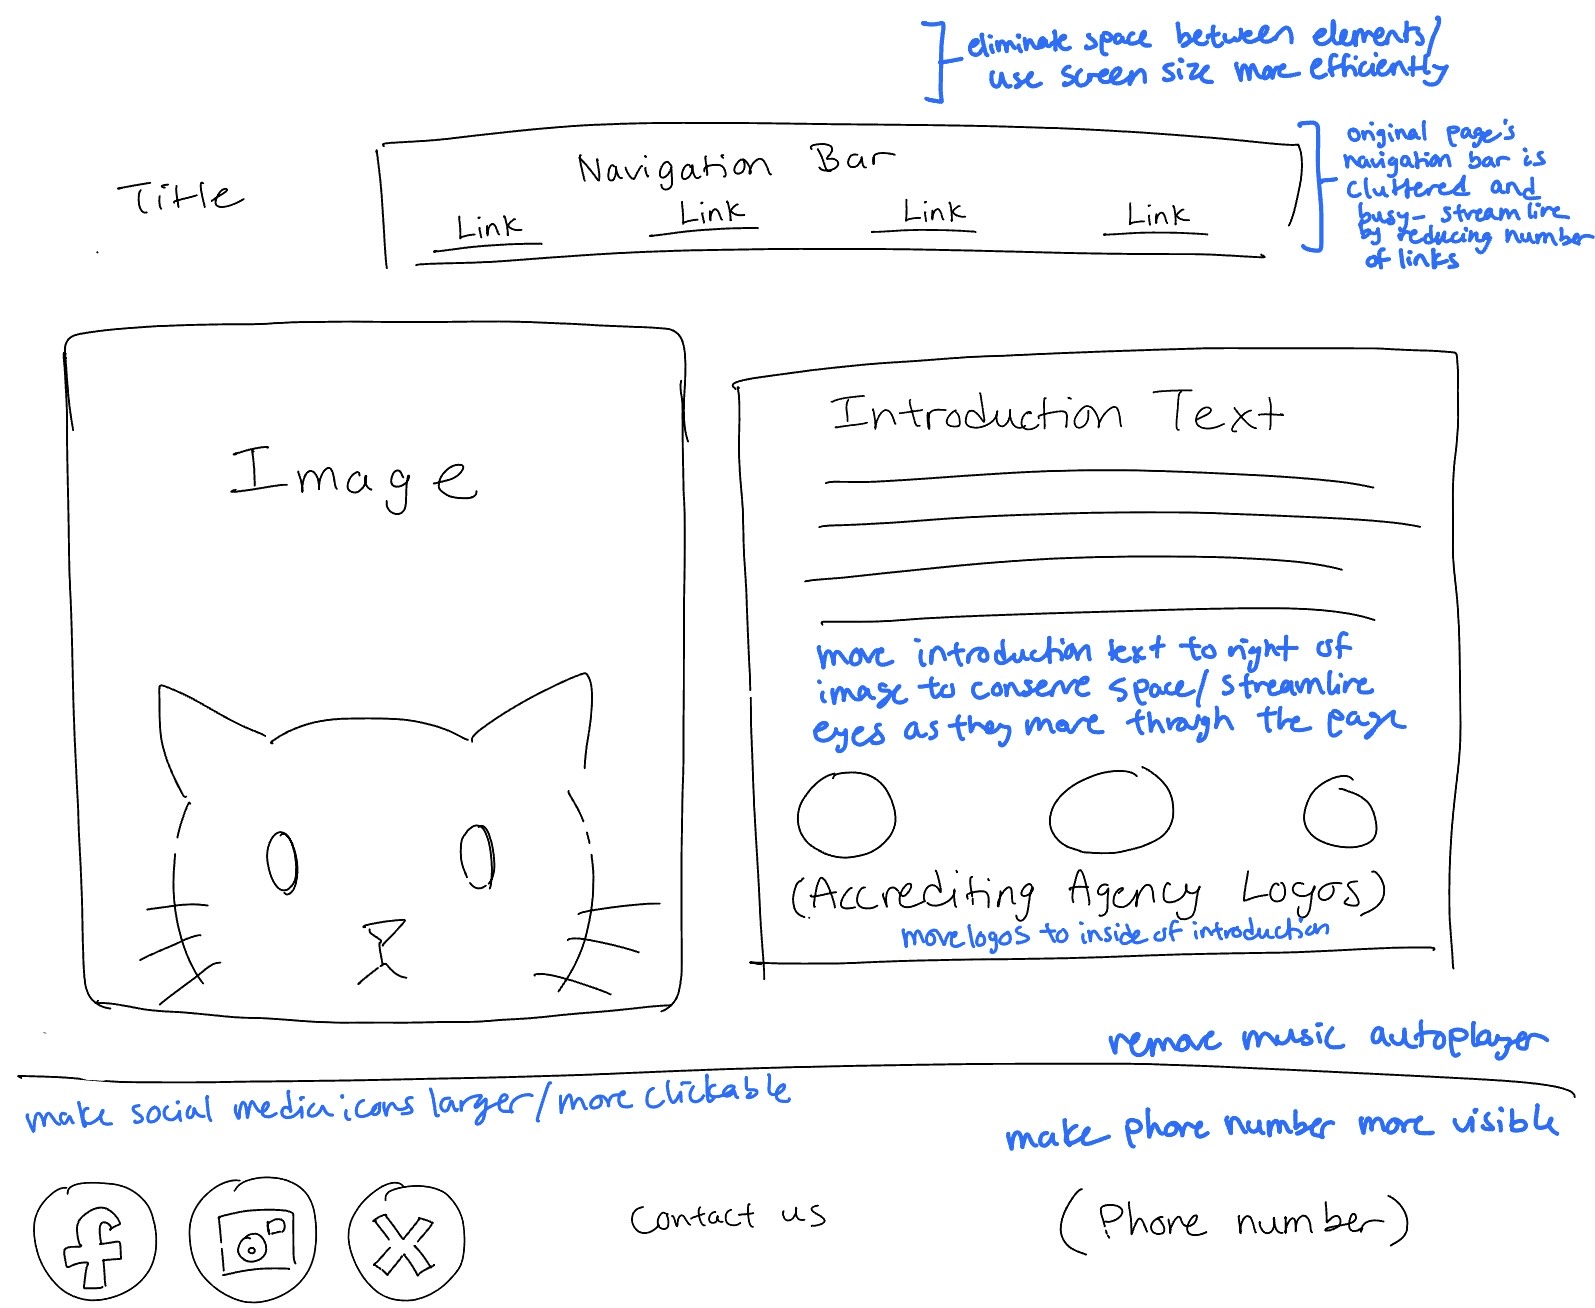
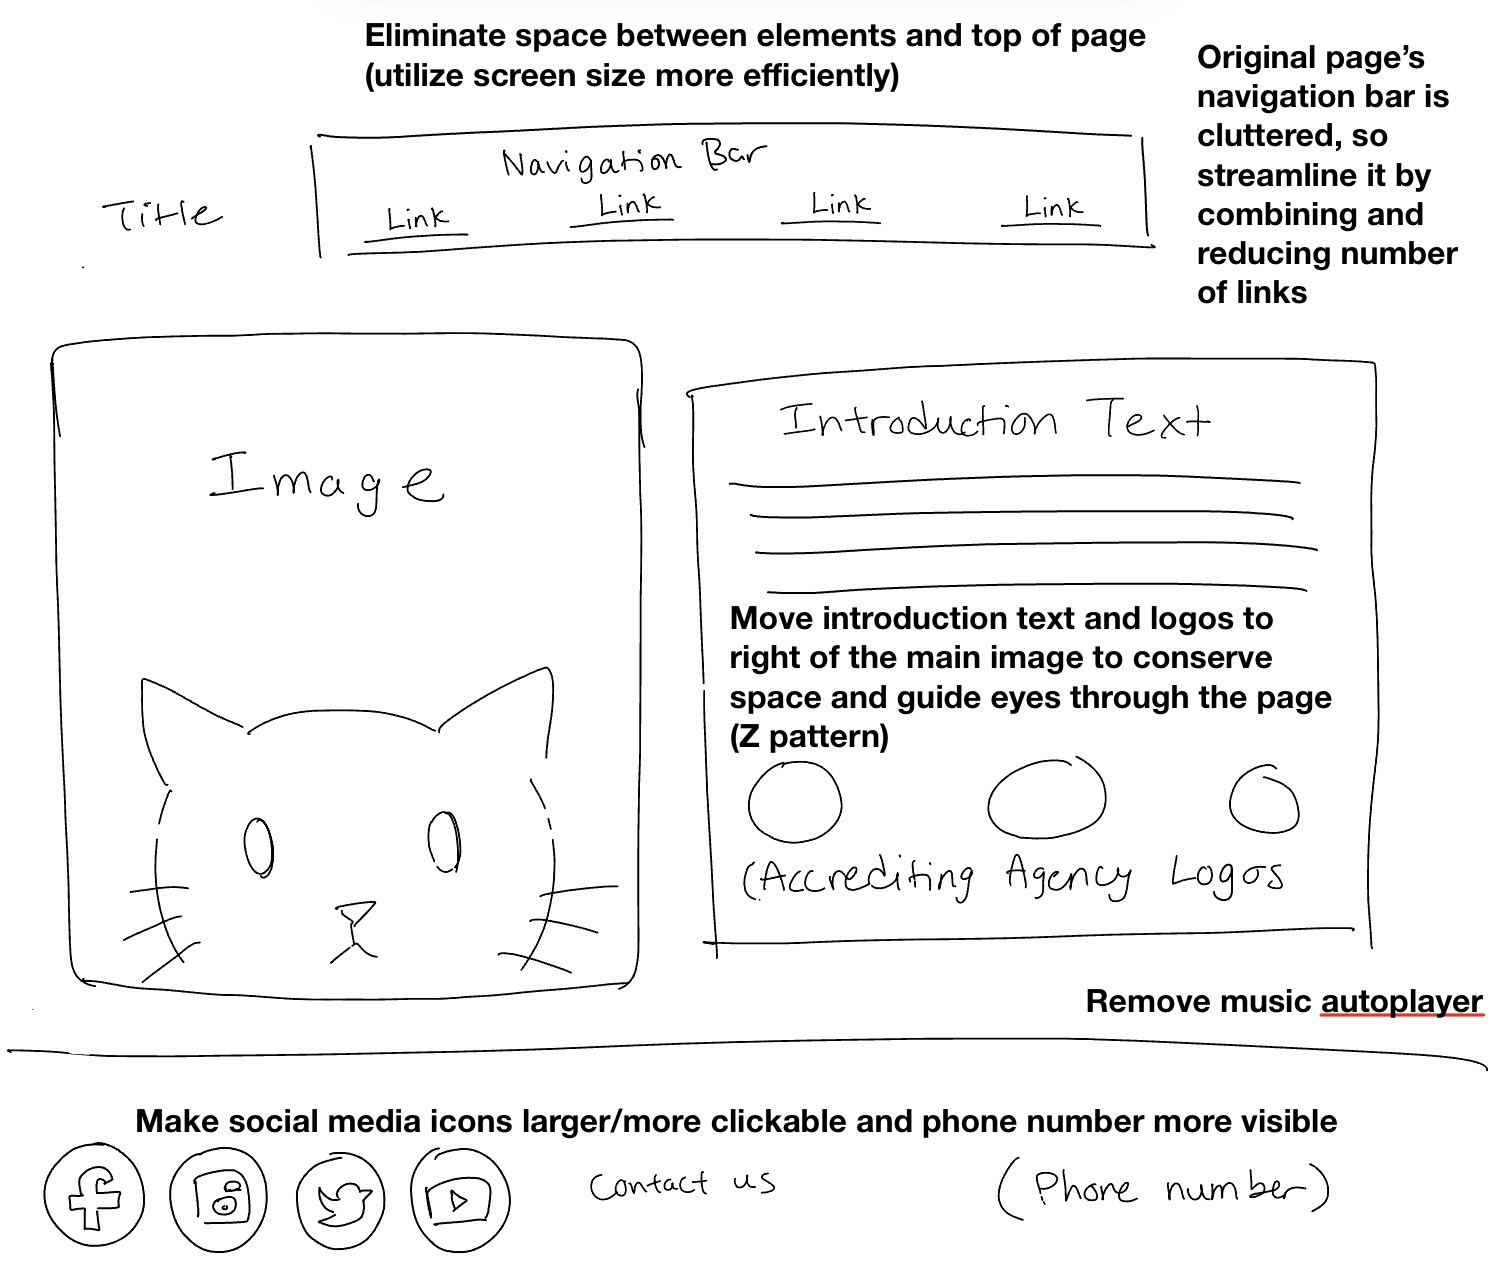
adding more info

diff --git a/index.html b/index.html
@@ -12,7 +12,7 @@
 <body>
     <div id="main">
         <h1 class="website-title">Project 2: Responsive Redesign</h1>
-        <div id="body-one">
+        <div id="body">
           <h3 class="part-title">Part 1: Identifying Usability Problems</h2>
           <div id="og-imgs">
             <img id="original" src="./assets/provenance-homepage.png" alt="The original desktop homepage of the Provenance Cats website"/>
@@ -24,6 +24,7 @@
           <p class="part-one-text">Before I actually began to plan my redesign, I identified a few usability concerns that I wanted to address. In particular:</p>
           <ul>
             <li>The website's desktop homepage doesn’t utilize space in the most efficient way, with a wide gap between the top of the page and the navigation bar itself. This is wasteful of the entire screen’s space and looks somewhat disorganized.</li>
+            <li>The navigation bar has 13 total links, which I feel is excessive, because many of the categories seem similar (ie having separate pages for male and female cats, when they could both be combined on one page for just listing all the cats.)</li>
             <li>The desktop site also has an automatic music player, which feels very outdated and has the potential to startle anyone who views the website.</li>
             <li>The mobile homepage is strangely designed, with vastly different information from the desktop's homepage. On the mobile website, a large majority of the page is filled with various quotes about cats, while the desktop page lists more information about the business itself.</li>
             <li>On both pages (especially the mobile version, where it can be even more difficult to be precise), the social media logo icons are very small and difficult to click.</li> 
@@ -31,16 +32,22 @@
         </ul>
           <p class="mini-header">Accessibility</p>
           <p class="part-one-text">WebAIM WAVE identified numerous accessibility issues with the website, including missing alternative text for images, contrast errors for text, and a lack of HTML structures including headers. I agree with WAVE’s findings in that I can imagine it would be very difficult for someone using a web reader to navigate this page. I also believe there are numerous other issues with the page that WAIVE wasn't able to identify: specifically, the contrast issue I previously identified of gray text against the teal backdrop.</p>
-        </div>
-        <div id="body-two">
+        
             <h4 class="part-title">Part 2: Visual Redesign</h2>
             <p class="part-one-text">The next part of the project was brainstorming ideas for my redesign.</p>
-
-              <img id="centered-img" src="./assets/sketches.jpg" alt="My speed sketches for planning"/>
-            <p class="part-one-text">I began with 9 speed sketches, each taking around a minute. I tried to incorporate different elements into each sketch and figure out which aspects I wanted to incorporate into my final design.</p>
+            <img id="centered-img" src="./assets/sketches.jpg" alt="My speed sketches for planning"/>
+            <p class="part-one-text">I began with 9 speed sketches, each taking around a minute. I tried to incorporate different elements into each sketch and figure out which aspects I wanted to incorporate into my final design. From this step, I could synthesize elements of each design that I like to create and create a final sketch.</p>
+            <img id="centered-img" src="./assets/final-sketch.jpg" alt="My final rough sketch."/>
+            <p class="part-one-text">I wanted to have a single, main image on the page that could attract attention, and I also liked the look of having the introduction text to the right of this image (following the Z-pattern of eye movement we covered in class).
+                I also preferred the look of having both a top and bottom bar, with the top one including navigation links and the bottom having contact information.</p>
+            <p class="part-one-text"> From this final sketch, I created three wireframes for the desktop, mobile, and tablet versions of the site, annotating areas where I corrected the original site's flaws.</p>
             <img id="centered-img" src="./assets/desktop-redesign.jpg" alt="My sketch for a desktop redesign."/>
-            <p> ANNOTATE WIREFRAMES AND ADD HERE</p>
+            <p class="part-one-text">As you can see, I streamlined the desktop design by removing the automatic music player and condensing the number of links. I planned to do this thoughtfully by combining related pages and using dropdowns to group related information, and attempted to retain the quality of information presented by the site.</p>
             <img id="centered-img" src="./assets/mobile-redesign.jpg" alt="My sketch for a mobile redesign."/>
+            <br>
+            <img id="centered-img" src="./assets/tablet-redesign.jpg" alt="My sketch for a tablet redesign."/>
+            <p class="part-one-text">The mobile and tablet redesigns are more similar in nature, both featuring a dropdown instead of a traditional navigation bar for ease of tapping with fingers (which are less precise than a mouse). I also changed the social media links to listing out the handles, as I believe buttons would be too difficult to press on a smaller screen.</p>
+            <p class="part-one-text">Then, I created a style guide to ensure consistency.</p>
 
             <img id="style" src="./assets/style-guide.png" alt="My speed sketches for planning"/>
             <img id="centered-img" src="./assets/desktop-hifi.png" alt="My speed sketches for planning"/>

diff --git a/style.css b/style.css
@@ -24,7 +24,7 @@ body {
     text-decoration: underline;
 }
 
-#body-one {
+#body {
     display: flex;
     justify-content: space-evenly;
     flex-direction: column;
